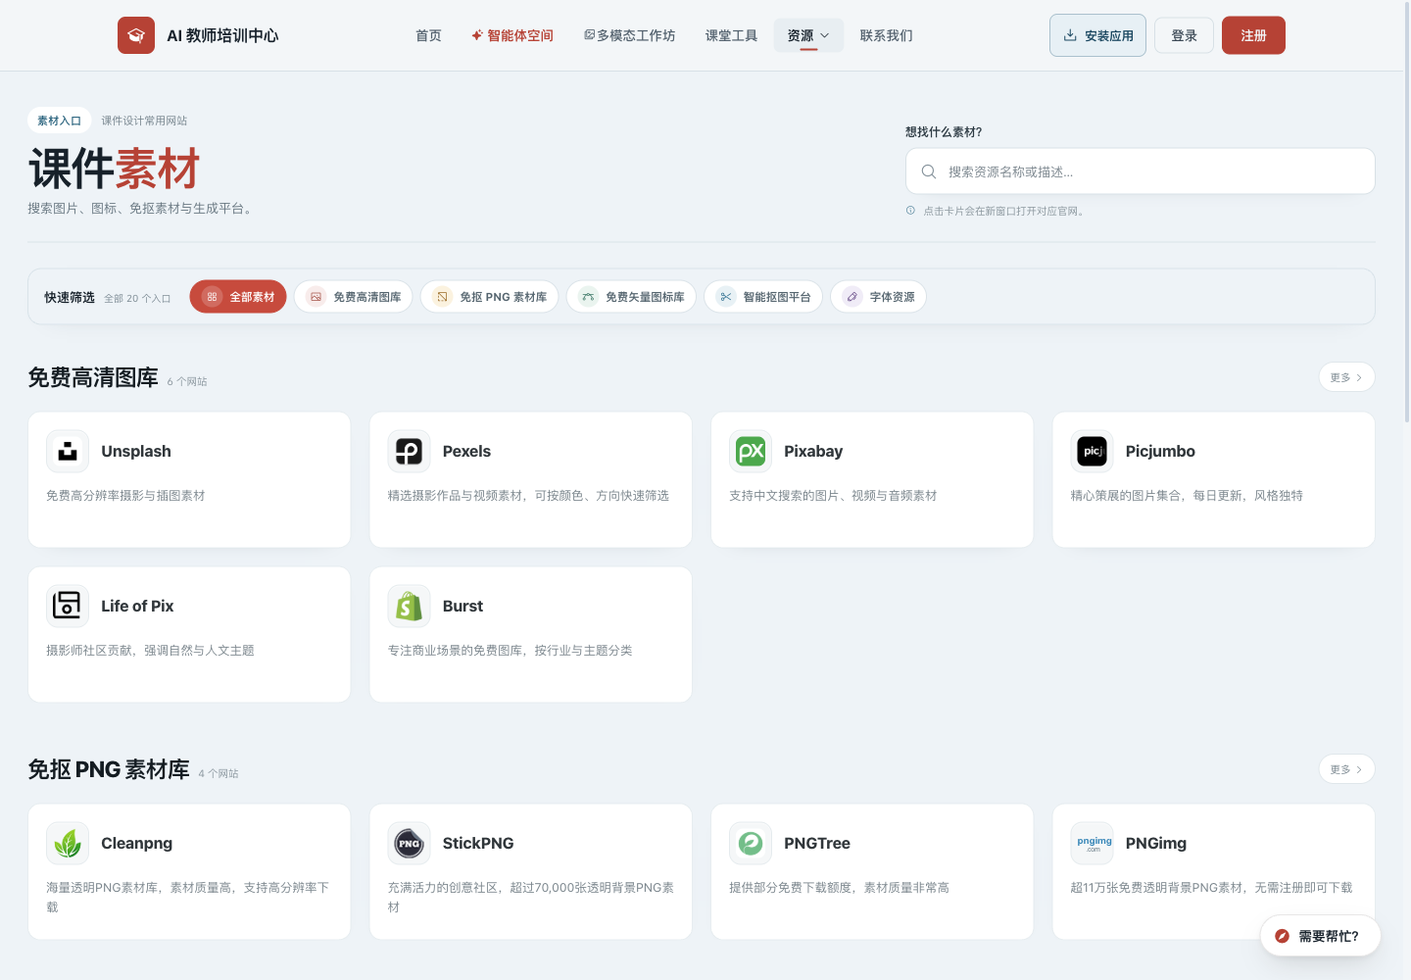
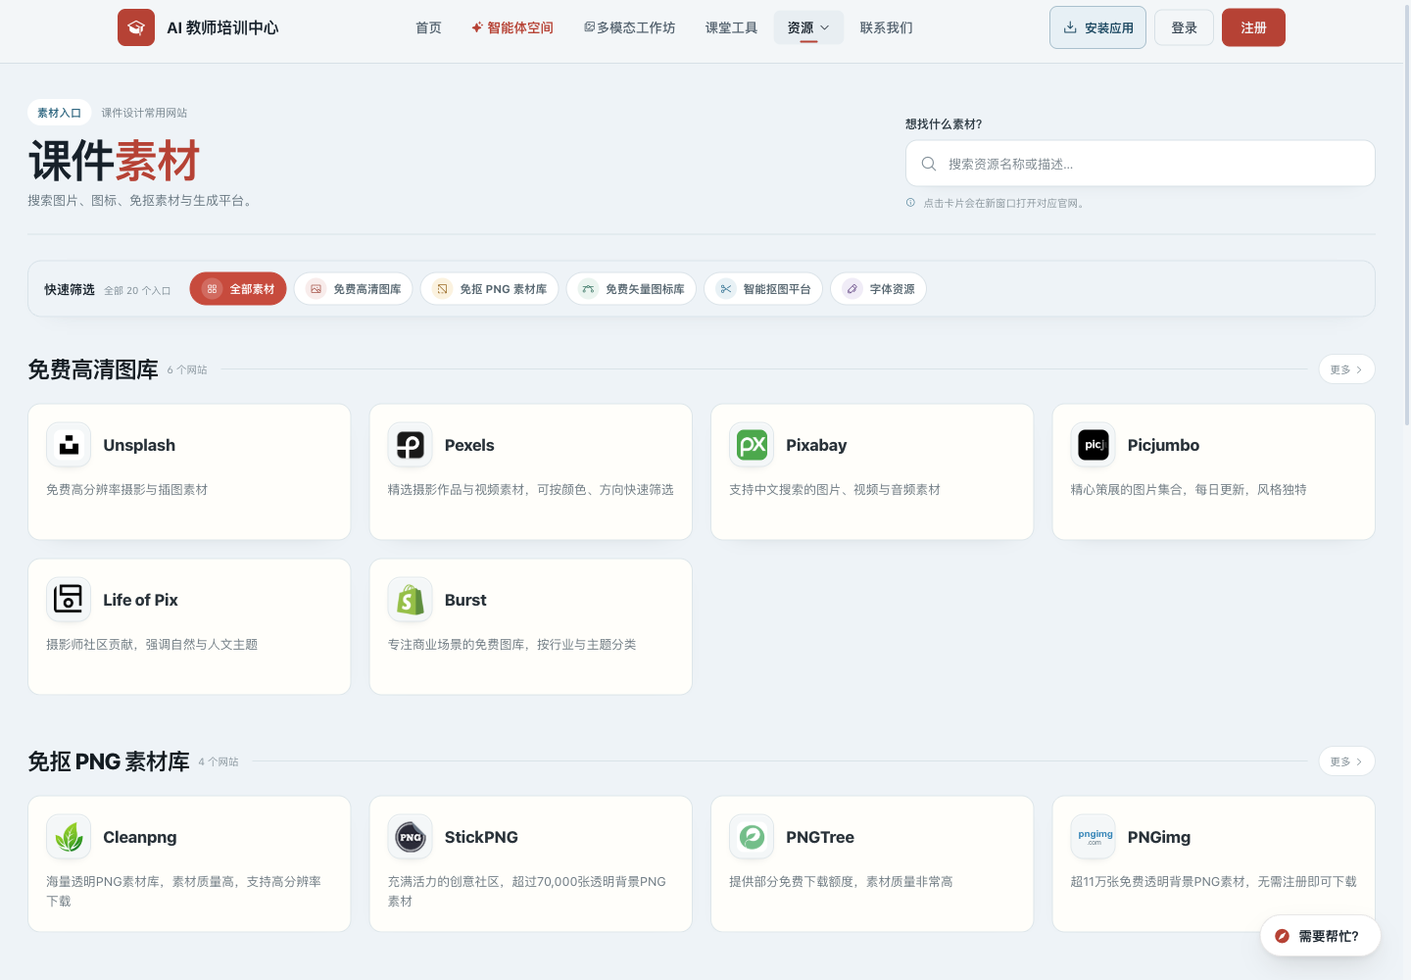
Polish resources directory cards

diff --git a/css/style.css b/css/style.css
@@ -3025,7 +3025,15 @@ textarea:focus-visible,
     border: 0;
 }
 .resource-section-title .resource-section-icon { display: none; }
-.resource-section-title > div { display: flex; align-items: baseline; gap: 9px; }
+.resource-section-title > div { display: flex; flex: 1 1 auto; align-items: center; min-width: 0; gap: 9px; }
+.resource-section-title > div::after {
+    content: "";
+    height: 1px;
+    min-width: 36px;
+    flex: 1 1 auto;
+    margin-left: 5px;
+    background: #d9e3e8;
+}
 .resource-section-title h2 { margin: 0; color: #141c22; font-size: 23px; font-weight: 790; letter-spacing: -.035em; }
 .resource-section-title p { margin: 0; color: #8a969e; font-size: 10.5px; }
 .resource-section-more {
@@ -3033,7 +3041,7 @@ textarea:focus-visible,
     align-items: center;
     gap: 3px;
     min-height: 31px;
-    margin-left: auto;
+    margin-left: 2px;
     padding: 5px 11px;
     border: 1px solid #e0e7eb;
     border-radius: 999px;
@@ -3054,51 +3062,62 @@ textarea:focus-visible,
     aspect-ratio: auto;
     min-height: 140px;
     padding: 18px;
-    border: 1px solid rgba(221,229,234,.7);
+    border: 1px solid #dde6ea;
     border-radius: 13px;
-    background: #fff;
-    box-shadow: 0 7px 22px -23px rgba(19,34,44,.62);
+    background: #fffefa;
+    box-shadow: 0 8px 24px -24px rgba(20,35,45,.56);
     transition: border-color .16s, box-shadow .16s, transform .16s;
 }
-.resource-card:hover { border-color: #c5d2d8; box-shadow: 0 14px 28px -24px rgba(21,37,47,.48); transform: translateY(-2px); }
+.resource-card:hover { border-color: #bdcbd2; box-shadow: 0 15px 30px -23px rgba(21,37,47,.48); transform: translateY(-2px); }
+.resource-card:active { transform: translateY(0); }
+.resource-card:focus-visible { outline: 3px solid rgba(60,112,137,.3); outline-offset: 3px; }
 .resource-card-top { justify-content: flex-start; align-items: center; gap: 12px; width: 100%; margin-bottom: 12px; text-align: left; }
 .resource-logo-frame {
-    width: 44px;
-    height: 44px;
-    flex: 0 0 44px;
-    padding: 6px;
-    border: 1px solid #e5ebee;
-    border-radius: 12px;
-    background: #f5f7f8;
-    box-shadow: inset 0 1px 0 rgba(255,255,255,.72);
+    width: 46px;
+    height: 46px;
+    flex: 0 0 46px;
+    padding: 7px;
+    border: 1px solid #e1e8eb;
+    border-radius: 13px;
+    background: #f4f7f8;
+    box-shadow: inset 0 1px 0 rgba(255,255,255,.78), 0 4px 11px -10px rgba(28,44,54,.55);
+    transition: border-color .16s, box-shadow .16s, transform .16s;
 }
 .resource-logo-frame img {
-    width: 30px;
-    height: 30px;
-    max-width: 30px;
-    max-height: 30px;
+    width: 31px;
+    height: 31px;
+    max-width: 31px;
+    max-height: 31px;
     border-radius: 7px;
     object-fit: contain;
 }
 .resource-logo-wordmark {
-    width: 44px;
-    height: 44px;
-    flex-basis: 44px;
-    border-radius: 12px;
+    width: 46px;
+    height: 46px;
+    flex-basis: 46px;
+    border-radius: 13px;
 }
 .resource-logo-wordmark > span { max-width: 32px; color: #657985; font-size: 7px; line-height: 1; text-align: center; }
 .resource-logo-wordmark b { display: block; color: #3585b7; font-size: 10px; line-height: 1.05; }
 .resource-card-name { flex: 1 1 auto; min-width: 0; text-align: left; }
-.resource-card-name h3 { margin: 0; color: #30363a; font-size: 16px; font-weight: 760; line-height: 1.3; }
+.resource-card-name h3 { margin: 0; color: #293239; font-size: 16.5px; font-weight: 780; line-height: 1.3; transition: color .16s; }
+.resource-card:hover .resource-logo-frame,
+.resource-card:focus-visible .resource-logo-frame {
+    border-color: #c7d3d9;
+    box-shadow: inset 0 1px 0 rgba(255,255,255,.82), 0 7px 15px -11px rgba(28,44,54,.58);
+    transform: translateY(-1px) scale(1.03);
+}
+.resource-card:hover .resource-card-name h3,
+.resource-card:focus-visible .resource-card-name h3 { color: #b74337; }
 .resource-card > p {
     flex: 0 0 auto;
     display: -webkit-box;
     min-height: 40px;
     margin: 0;
     overflow: hidden;
-    color: #7a858c;
-    font-size: 12.5px;
-    line-height: 1.65;
+    color: #6e7a82;
+    font-size: 12.7px;
+    line-height: 1.62;
     -webkit-box-orient: vertical;
     -webkit-line-clamp: 2;
 }
@@ -3127,4 +3146,11 @@ textarea:focus-visible,
     .resource-section-title h2 { font-size: 21px; }
     .resource-grid { grid-template-columns: 1fr; gap: 12px; }
     .resource-card { min-height: 140px; padding: 17px; }
+}
+@media (prefers-reduced-motion: reduce) {
+    .resource-card,
+    .resource-logo-frame,
+    .resource-card-name h3 { transition: none; }
+    .resource-card:hover,
+    .resource-card:hover .resource-logo-frame { transform: none; }
 }

diff --git a/design-qa.md b/design-qa.md
@@ -1,77 +1,100 @@
-# AI 工具目录页 Design QA
+# 课件素材目录页 Design QA
 
 ## 对照对象
 
-- source visual truth: `/Users/wangxingyu/C-C/t-training/reports/2026-09-25-tools-redesign/reference-resources.png`
-- implementation screenshot: `/Users/wangxingyu/C-C/t-training/reports/2026-09-25-tools-redesign/implementation-desktop.png`
-- responsive screenshot: `/Users/wangxingyu/C-C/t-training/reports/2026-09-25-tools-redesign/implementation-mobile.png`
-- full comparison: `/Users/wangxingyu/C-C/t-training/reports/2026-09-25-tools-redesign/comparison-desktop.png`
-- focused comparison: `/Users/wangxingyu/C-C/t-training/reports/2026-09-25-tools-redesign/comparison-cards.png`
-- route: `http://127.0.0.1:8765/tools`
+- source visual truth: `/Users/wangxingyu/C-C/t-training/reports/2026-09-24-resources-redesign/reference.png`
+- implementation screenshot: `/Users/wangxingyu/C-C/t-training/reports/2026-09-24-resources-redesign/implementation-desktop.png`
+- responsive screenshot: `/Users/wangxingyu/C-C/t-training/reports/2026-09-24-resources-redesign/implementation-mobile.png`
+- full comparison: `/Users/wangxingyu/C-C/t-training/reports/2026-09-24-resources-redesign/comparison-desktop.png`
+- focused comparison: `/Users/wangxingyu/C-C/t-training/reports/2026-09-24-resources-redesign/comparison-cards.png`
+- route: `http://127.0.0.1:8765/resources`
 
 ## 尺寸、密度与状态
 
-- 源页面与实现均在 1440×1000 px 视口截图，用于直接比较页面层级、筛选区、分区标题和卡片规格。
-- 手机实现的 CSS 视口为 390×844 px，页面没有横向溢出。
-- 桌面端共显示 20 个工具、4 个任务分区；首张卡片为 331×140 px。
-- 手机端为单列布局，卡片为 350×140 px；两行筛选项在各自行内横向滑动，不撑宽页面。
+- 原始参考图为 3392×1874 px；以等比裁切归一化到 1440×1000 px，用于与实现截图对照。
+- 桌面实现的 CSS viewport 为 1440×1000，截图为 1440×1000 px。
+- 手机实现的 CSS viewport 为 390×844，页面没有横向溢出。
+- 参考图与实现使用不同网站数据，因此本次比较布局密度、卡片结构、视觉令牌和交互层级，不比较逐字内容。
 
 ## Full-view comparison evidence
 
-最终实现沿用课件素材页的浅灰蓝背景、紧凑首屏、白色圆角卡片、粗体分区标题和橙红色选中状态。搜索框与页面标题保持左右对应，任务与条件筛选集中在同一条浮动筛选面板中，形成相同的目录浏览节奏。
+参考图和最终实现已放入同一张 2880×1000 对照图中检查。最终实现采用参考图的浅灰蓝背景、白色圆角卡片、粗体分区标题、胶囊“更多”按钮和橙红色选中状态。根据最新反馈，桌面端采用更舒展的四列网格。原站导航、页面标题、搜索框和分类筛选被保留，用于站内导航与素材查找。
 
 ## Focused region comparison evidence
 
-卡片区域另以相同宽度裁切到 `comparison-cards.png` 共同查看。工具卡片只保留统一 Logo 底板、名称和两行以内的用途说明；已移除右上角箭头、费用标签、适用建议、核对日期和底部跳转文案，整张卡片仍可点击访问官网。
+卡片区域另以相同宽度裁切到 `comparison-cards.png` 共同查看。最终版把 Logo、名称和说明统一左对齐；右上角箭头、官网域名、分类标签、底部“访问官网”和“查看官方许可”均已移除。
 
 ## Findings
 
 - 没有残留的 P0、P1 或 P2 问题。
-- 字体与排版：页面标题、筛选标签、分区标题和卡片文字层级与课件素材页一致。
-- 间距与布局：1440 px 显示四列、1180 px 以下三列、860 px 以下两列、760 px 以下单列。
-- 卡片高度：使用 140 px 基础高度，内容较长时可自然撑开，避免固定比例造成大块留白。
-- Logo 一致性：20 个工具都使用 46×46 px 圆角方形底板，并全部改用对应官网提供的 Logo 或站点图标；加载失败与图标回退数量均为 0。
-- 视觉层次：卡片改用轻微暖白背景，标题字重和说明文字对比度提高；分区标题右侧增加浅色细线，长列表的结构更清楚。
-- 交互：筛选按钮带有可读的选中状态；卡片悬停时上移 2 px，Logo 轻微放大，标题变为品牌砖红色；键盘焦点与减少动态效果偏好均有对应状态。
-- P3 / accepted：工具页保留“任务”和“条件”两套筛选以及安全提示，因为这些信息直接支持教师选择工具；课件素材页只需要单套分类筛选。
+- 字体与排版：卡片只保留 Logo、名称和一句说明，标题加重并提高说明文字对比度，长描述限制为两行。
+- 间距与布局：1440 px 显示四列、1000 px 显示三列、820 px 显示两列、390 px 显示一列。
+- 卡片高度：取消固定比例，使用 140 px 基础高度；1440 px 四列时约为 2.36:1，内容较长时可自然增高。
+- 颜色与视觉令牌：页面底色、轻微暖白卡片和橙红强调色与参考图同类；分区标题后的细线补足长页面层次，边框与阴影保持克制。
+- 图片质量：当前实际加载的 20 个网站均显示真实 Logo，失败回退数量为 0。
+- Logo 一致性：全部 Logo 使用 46×46 px 圆角方形底板、统一内边距与 31×31 px 图形区域；五个横版字标替换为网站官方 favicon。
+- 文案与内容：重复分类、官网域名及许可入口均已删去。
+- 交互：卡片悬停时上移 2 px，Logo 轻微放大，标题变为品牌砖红色；键盘焦点与减少动态效果偏好均有对应状态。
+- P3 / accepted：参考图没有主导航和搜索区，实现保留了两者，这是实际产品所需功能。
 
-## Iteration history
+## Comparison history
 
 ### Iteration 1 — passed
 
-- 将工具页改为与课件素材页一致的紧凑目录布局，删除重复标签、箭头和底部操作栏。
-- 完成四列、三列、两列和手机单列响应式布局。
+- 按参考图将大首屏和左侧固定目录改为全宽分区卡片墙。
 
 ### Iteration 2 — passed
 
-- 为 20 个工具补齐官网 Logo，统一 Logo 底板并验证加载结果。
+- 根据使用反馈，把六列调整为四列，并增加三列、两列和单列响应式断点。
+- Logo、标题与说明改为明确左对齐，删除域名、卡片分类标签、底部操作文案及许可链接。
+- 四种视口均无横向溢出，卡片内容与交互保持完整。
 
 ### Iteration 3 — passed
 
+- 将圆形、横版和不规则 Logo 统一放入 44×44 px 圆角方形底板。
+- StickPNG、趣作图、字由、100font 和字魂改用各网站官方方形 favicon，避免横版字标缩小后无法辨认。
+- 桌面与手机端均检查 20 个 Logo，尺寸一致且加载失败数量为 0。
+
+### Iteration 4 — passed
+
+- 所有资源卡片改为精确的 2:1 宽高比。
+- 删除重复出现的右上角跳转箭头，保留整张卡片的链接、悬停与键盘聚焦反馈。
+- 四列、三列、两列和手机单列状态均实测为 2.000，重新载入手机页面后无横向溢出。
+
+### Iteration 5 — passed
+
+- 根据实际内容量取消固定 2:1，改为 140 px 基础高度并允许内容自然撑开。
+- 卡片内边距缩小到 18 px，标题区与简介的距离缩小到 12 px，简介不再占满剩余空间。
+- 桌面与手机端均无内容溢出或页面横向溢出，底部空白明显减少。
+
+### Iteration 6 — passed
+
 - Logo 底板从 44 px 微调到 46 px，强化标题和说明文字层级。
-- 增加暖白卡片、分区细线以及克制的悬停和键盘焦点反馈。
-- 桌面与手机端卡片继续保持 140 px 基础高度，没有内容或页面横向溢出。
+- 卡片改用轻微暖白背景，分区标题右侧增加浅色细线，让五组素材的层次更清楚。
+- 增加克制的悬停、键盘焦点和减少动态效果反馈；桌面与手机端继续保持 140 px 基础高度。
 
 ## Primary interactions and console check
 
-- 任务筛选“图像·音视频·数字人”正确显示 7 个工具，并切换到单层网格。
-- 条件筛选“免费”正确显示 7 个工具、3 个分区。
-- 搜索“Gamma”正确显示唯一结果；无结果关键词会显示空状态；清空后恢复 20 个工具和 4 个分区。
-- 任务和条件按钮的 `aria-pressed` 会随当前筛选同步更新。
-- 20 个官网 Logo 全部加载成功，失败数量与回退图标数量均为 0；来源记录见 `reports/2026-09-25-tools-redesign/logo-sources.md`。
-- 卡片内适用建议、标签、底部操作栏与跳转箭头数量均为 0。
-- 浏览器没有页面脚本异常。本地预览仅有 `/api/analytics` 返回 501 的既有统计警告，不影响工具页功能。
+- 搜索输入可实时筛选；无结果状态正确出现，清除搜索后恢复全部资源。
+- 点击分区“更多”会切换到对应分类；点击“清除筛选”恢复全部分类。
+- 手机端分类标签可横向滑动，资源卡片变为单列。
+- 桌面实际显示 20 张卡片、5 个分区；全部 Logo 加载成功。
+- 1440 px 桌面端首张卡片为 331×140 px；390 px 手机端为 350×140 px，页面均无横向溢出。
+- 卡片悬停最终位移为 2 px、Logo 缩放为 1.03，键盘焦点轮廓可见；减少动态效果设置下不执行位移动画。
+- 卡片内分类标签、许可链接和底部操作栏数量均为 0。
+- 浏览器没有页面脚本异常。本地预览仅有 `/api/analytics` 返回 501 的既有统计警告，不影响资源页功能。
 
 ## Implementation Checklist
 
-- [x] 与课件素材页一致的背景、首屏和白色卡片墙
+- [x] 参考图式浅灰背景与白色卡片墙
 - [x] 桌面四列、中宽三列、平板两列、手机单列布局
-- [x] 任务与条件双重筛选、搜索、清除和空状态
-- [x] 20 个官网 Logo、统一 46×46 px 底板及失败回退
+- [x] 分区标题与“更多”按钮
+- [x] 搜索、分类、清除筛选与空状态
+- [x] 高清真实 Logo 与失败回退检查
+- [x] 统一 46×46 px Logo 底板、内边距与显示尺寸
 - [x] 左对齐卡片与精简信息层级
-- [x] 暖白卡片、分区细线和克制的悬停反馈
-- [x] 无箭头、无重复标签、无底部说明栏
-- [x] 手机端筛选横向滑动且页面无横向溢出
+- [x] 暖白卡片、分区细线及悬停与键盘焦点反馈
+- [x] 内容驱动的紧凑卡片高度与无箭头交互检查
 - [x] 同尺寸全页与卡片区域视觉对照
 
 final result: passed

diff --git a/reports/2026-09-25-tools-redesign/design-qa.md b/reports/2026-09-25-tools-redesign/design-qa.md
@@ -1,0 +1,77 @@
+# AI 工具目录页 Design QA
+
+## 对照对象
+
+- source visual truth: `/Users/wangxingyu/C-C/t-training/reports/2026-09-25-tools-redesign/reference-resources.png`
+- implementation screenshot: `/Users/wangxingyu/C-C/t-training/reports/2026-09-25-tools-redesign/implementation-desktop.png`
+- responsive screenshot: `/Users/wangxingyu/C-C/t-training/reports/2026-09-25-tools-redesign/implementation-mobile.png`
+- full comparison: `/Users/wangxingyu/C-C/t-training/reports/2026-09-25-tools-redesign/comparison-desktop.png`
+- focused comparison: `/Users/wangxingyu/C-C/t-training/reports/2026-09-25-tools-redesign/comparison-cards.png`
+- route: `http://127.0.0.1:8765/tools`
+
+## 尺寸、密度与状态
+
+- 源页面与实现均在 1440×1000 px 视口截图，用于直接比较页面层级、筛选区、分区标题和卡片规格。
+- 手机实现的 CSS 视口为 390×844 px，页面没有横向溢出。
+- 桌面端共显示 20 个工具、4 个任务分区；首张卡片为 331×140 px。
+- 手机端为单列布局，卡片为 350×140 px；两行筛选项在各自行内横向滑动，不撑宽页面。
+
+## Full-view comparison evidence
+
+最终实现沿用课件素材页的浅灰蓝背景、紧凑首屏、白色圆角卡片、粗体分区标题和橙红色选中状态。搜索框与页面标题保持左右对应，任务与条件筛选集中在同一条浮动筛选面板中，形成相同的目录浏览节奏。
+
+## Focused region comparison evidence
+
+卡片区域另以相同宽度裁切到 `comparison-cards.png` 共同查看。工具卡片只保留统一 Logo 底板、名称和两行以内的用途说明；已移除右上角箭头、费用标签、适用建议、核对日期和底部跳转文案，整张卡片仍可点击访问官网。
+
+## Findings
+
+- 没有残留的 P0、P1 或 P2 问题。
+- 字体与排版：页面标题、筛选标签、分区标题和卡片文字层级与课件素材页一致。
+- 间距与布局：1440 px 显示四列、1180 px 以下三列、860 px 以下两列、760 px 以下单列。
+- 卡片高度：使用 140 px 基础高度，内容较长时可自然撑开，避免固定比例造成大块留白。
+- Logo 一致性：20 个工具都使用 46×46 px 圆角方形底板，并全部改用对应官网提供的 Logo 或站点图标；加载失败与图标回退数量均为 0。
+- 视觉层次：卡片改用轻微暖白背景，标题字重和说明文字对比度提高；分区标题右侧增加浅色细线，长列表的结构更清楚。
+- 交互：筛选按钮带有可读的选中状态；卡片悬停时上移 2 px，Logo 轻微放大，标题变为品牌砖红色；键盘焦点与减少动态效果偏好均有对应状态。
+- P3 / accepted：工具页保留“任务”和“条件”两套筛选以及安全提示，因为这些信息直接支持教师选择工具；课件素材页只需要单套分类筛选。
+
+## Iteration history
+
+### Iteration 1 — passed
+
+- 将工具页改为与课件素材页一致的紧凑目录布局，删除重复标签、箭头和底部操作栏。
+- 完成四列、三列、两列和手机单列响应式布局。
+
+### Iteration 2 — passed
+
+- 为 20 个工具补齐官网 Logo，统一 Logo 底板并验证加载结果。
+
+### Iteration 3 — passed
+
+- Logo 底板从 44 px 微调到 46 px，强化标题和说明文字层级。
+- 增加暖白卡片、分区细线以及克制的悬停和键盘焦点反馈。
+- 桌面与手机端卡片继续保持 140 px 基础高度，没有内容或页面横向溢出。
+
+## Primary interactions and console check
+
+- 任务筛选“图像·音视频·数字人”正确显示 7 个工具，并切换到单层网格。
+- 条件筛选“免费”正确显示 7 个工具、3 个分区。
+- 搜索“Gamma”正确显示唯一结果；无结果关键词会显示空状态；清空后恢复 20 个工具和 4 个分区。
+- 任务和条件按钮的 `aria-pressed` 会随当前筛选同步更新。
+- 20 个官网 Logo 全部加载成功，失败数量与回退图标数量均为 0；来源记录见 `reports/2026-09-25-tools-redesign/logo-sources.md`。
+- 卡片内适用建议、标签、底部操作栏与跳转箭头数量均为 0。
+- 浏览器没有页面脚本异常。本地预览仅有 `/api/analytics` 返回 501 的既有统计警告，不影响工具页功能。
+
+## Implementation Checklist
+
+- [x] 与课件素材页一致的背景、首屏和白色卡片墙
+- [x] 桌面四列、中宽三列、平板两列、手机单列布局
+- [x] 任务与条件双重筛选、搜索、清除和空状态
+- [x] 20 个官网 Logo、统一 46×46 px 底板及失败回退
+- [x] 左对齐卡片与精简信息层级
+- [x] 暖白卡片、分区细线和克制的悬停反馈
+- [x] 无箭头、无重复标签、无底部说明栏
+- [x] 手机端筛选横向滑动且页面无横向溢出
+- [x] 同尺寸全页与卡片区域视觉对照
+
+final result: passed

diff --git a/reports/2026-09-24-resources-redesign/design-qa.md b/reports/2026-09-24-resources-redesign/design-qa.md
@@ -27,13 +27,14 @@
 ## Findings
 
 - 没有残留的 P0、P1 或 P2 问题。
-- 字体与排版：卡片只保留 Logo、名称和一句说明，长描述限制为两行。
+- 字体与排版：卡片只保留 Logo、名称和一句说明，标题加重并提高说明文字对比度，长描述限制为两行。
 - 间距与布局：1440 px 显示四列、1000 px 显示三列、820 px 显示两列、390 px 显示一列。
 - 卡片高度：取消固定比例，使用 140 px 基础高度；1440 px 四列时约为 2.36:1，内容较长时可自然增高。
-- 颜色与视觉令牌：页面底色、白色卡片和橙红强调色与参考图同类；边框与阴影保持克制。
+- 颜色与视觉令牌：页面底色、轻微暖白卡片和橙红强调色与参考图同类；分区标题后的细线补足长页面层次，边框与阴影保持克制。
 - 图片质量：当前实际加载的 20 个网站均显示真实 Logo，失败回退数量为 0。
-- Logo 一致性：全部 Logo 使用 44×44 px 圆角方形底板、统一内边距与 30×30 px 图形区域；五个横版字标替换为网站官方 favicon。
+- Logo 一致性：全部 Logo 使用 46×46 px 圆角方形底板、统一内边距与 31×31 px 图形区域；五个横版字标替换为网站官方 favicon。
 - 文案与内容：重复分类、官网域名及许可入口均已删去。
+- 交互：卡片悬停时上移 2 px，Logo 轻微放大，标题变为品牌砖红色；键盘焦点与减少动态效果偏好均有对应状态。
 - P3 / accepted：参考图没有主导航和搜索区，实现保留了两者，这是实际产品所需功能。
 
 ## Comparison history
@@ -66,12 +67,20 @@
 - 卡片内边距缩小到 18 px，标题区与简介的距离缩小到 12 px，简介不再占满剩余空间。
 - 桌面与手机端均无内容溢出或页面横向溢出，底部空白明显减少。
 
+### Iteration 6 — passed
+
+- Logo 底板从 44 px 微调到 46 px，强化标题和说明文字层级。
+- 卡片改用轻微暖白背景，分区标题右侧增加浅色细线，让五组素材的层次更清楚。
+- 增加克制的悬停、键盘焦点和减少动态效果反馈；桌面与手机端继续保持 140 px 基础高度。
+
 ## Primary interactions and console check
 
 - 搜索输入可实时筛选；无结果状态正确出现，清除搜索后恢复全部资源。
 - 点击分区“更多”会切换到对应分类；点击“清除筛选”恢复全部分类。
 - 手机端分类标签可横向滑动，资源卡片变为单列。
 - 桌面实际显示 20 张卡片、5 个分区；全部 Logo 加载成功。
+- 1440 px 桌面端首张卡片为 331×140 px；390 px 手机端为 350×140 px，页面均无横向溢出。
+- 卡片悬停最终位移为 2 px、Logo 缩放为 1.03，键盘焦点轮廓可见；减少动态效果设置下不执行位移动画。
 - 卡片内分类标签、许可链接和底部操作栏数量均为 0。
 - 浏览器没有页面脚本异常。本地预览仅有 `/api/analytics` 返回 501 的既有统计警告，不影响资源页功能。
 
@@ -82,8 +91,9 @@
 - [x] 分区标题与“更多”按钮
 - [x] 搜索、分类、清除筛选与空状态
 - [x] 高清真实 Logo 与失败回退检查
-- [x] 统一 Logo 底板、内边距与显示尺寸
+- [x] 统一 46×46 px Logo 底板、内边距与显示尺寸
 - [x] 左对齐卡片与精简信息层级
+- [x] 暖白卡片、分区细线及悬停与键盘焦点反馈
 - [x] 内容驱动的紧凑卡片高度与无箭头交互检查
 - [x] 同尺寸全页与卡片区域视觉对照
 
